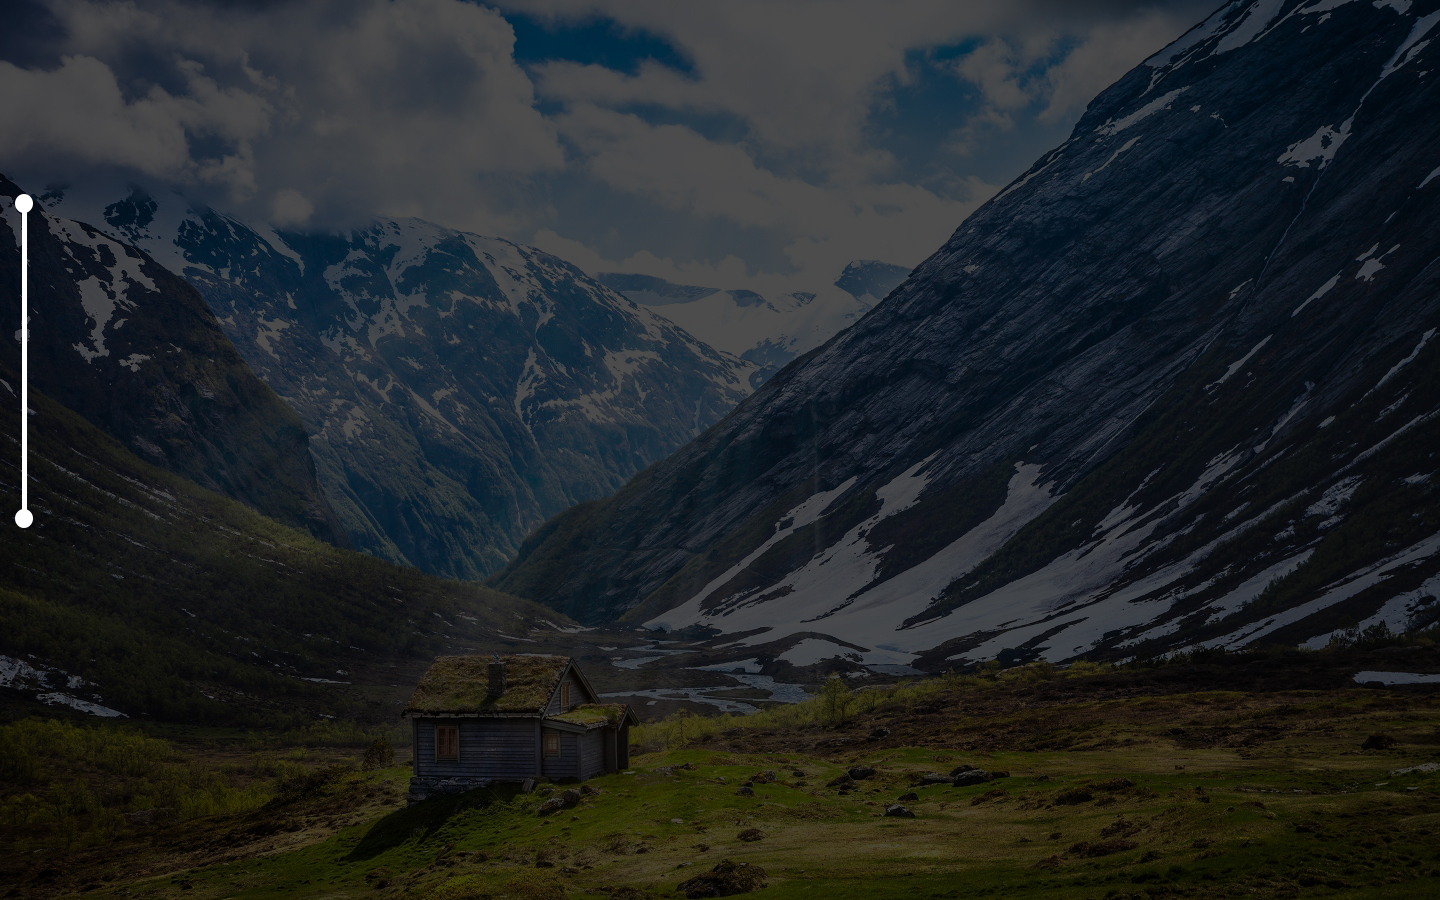
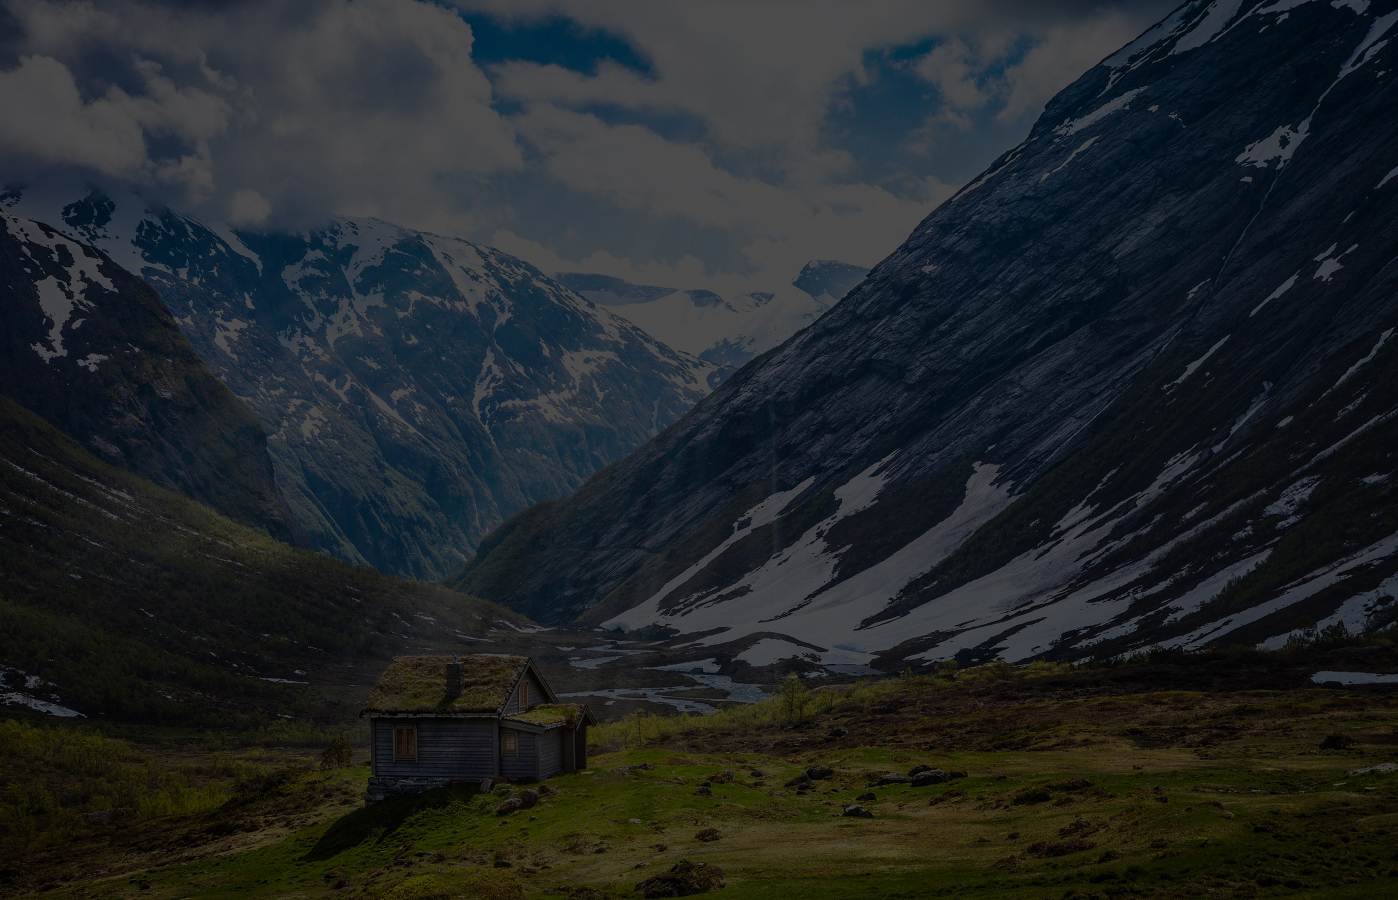
Register page tweaks

diff --git a/pluginservice/templates/accounts/register.html b/pluginservice/templates/accounts/register.html
@@ -3,16 +3,16 @@
         <br>
 <div class="row">
     <div class="large-6 columns panel registerleft">
-        <h1>Good Morning!</h1><br/>
-		<p><strong>This day will be great.</strong> Join Semety so that you can bring your web visitors a completely modern and easy way of engaging.</p>
+        <h1>This day will be great!</h1>
+		<!-- <p><strong>This day will be great.</strong> Join Semety so that you can bring your web visitors a completely modern and easy way of engaging.</p> --->
 		<hr class="invisible">
-		<center><h5>Automatic sign up using Social Media.</h5></center><br/>
+		<center><h5>Automatic sign up using Social Media.</h5></center>
 		<div class="social-signup">
             <a class="btn-connect-option facebook badge-facebook-connect" href="#" onclick="GAG.GA.track('login-signup', 'facebook-connect', 'signup-form');">Facebook</a>
             <span class="badge-gplus-connect" id="gplus_855192" data-gapiattached="true"><a class="btn-connect-option google-plus" href="javascript:void(0);" onclick="GAG.GPlus.btnClicked = true; GAG.GA.track('login-signup', 'gplus-connect', 'signup-form');">Google</a></span>
         </div>
 		<hr class="invisible">
-		<center><h5>Or, do it manually.</h5></center><br/>
+		<center><h5>Or, do it manually.</h5></center>
         <form action="" method="post" class="registerform">
             {% csrf_token %}
 			<div class="group">      
@@ -69,6 +69,7 @@
 			<h5>The users have generated a total of <strong>287,342 functions</strong> that are active and used on their own websites and others.</h5>
 			<h5>Semety estimates that they will gain a total of <strong>215 Million NOK</strong> more by using Semety's functions!</h5>
 		</aside>
+	<hr class="invisible">
 	<hr class="invisible">
 	<div class="registerboxfooter">
 	<div class="left">

diff --git a/pluginservice/apps/polls/static/css/custom.css b/pluginservice/apps/polls/static/css/custom.css
@@ -375,7 +375,7 @@ span {
 }
 .registerbox{
   width: 100%;
-  height: 871px;
+  max-height: 100% !Important;
   padding: 0px !important;
   background-image: url('../img/norway.jpg');
     background-repeat: no-repeat;
@@ -476,7 +476,7 @@ aside {
   float: right;
 }
 .registerboxfooter {
-  margin-top: 250px;
+  margin-top: 0px !Important;
   margin-lefT: 20px;
 }
 .registerboxfooter h1 {
@@ -528,7 +528,8 @@ input[type="text"], input[type="password"], input[type="date"], input[type="date
 
 .group 			  { 
   position:relative; 
-  margin-bottom:55px; 
+  margin-bottom:40px; 
+  margin-top: 30px;
 }
 input:focus 		{ outline:none; }
 
